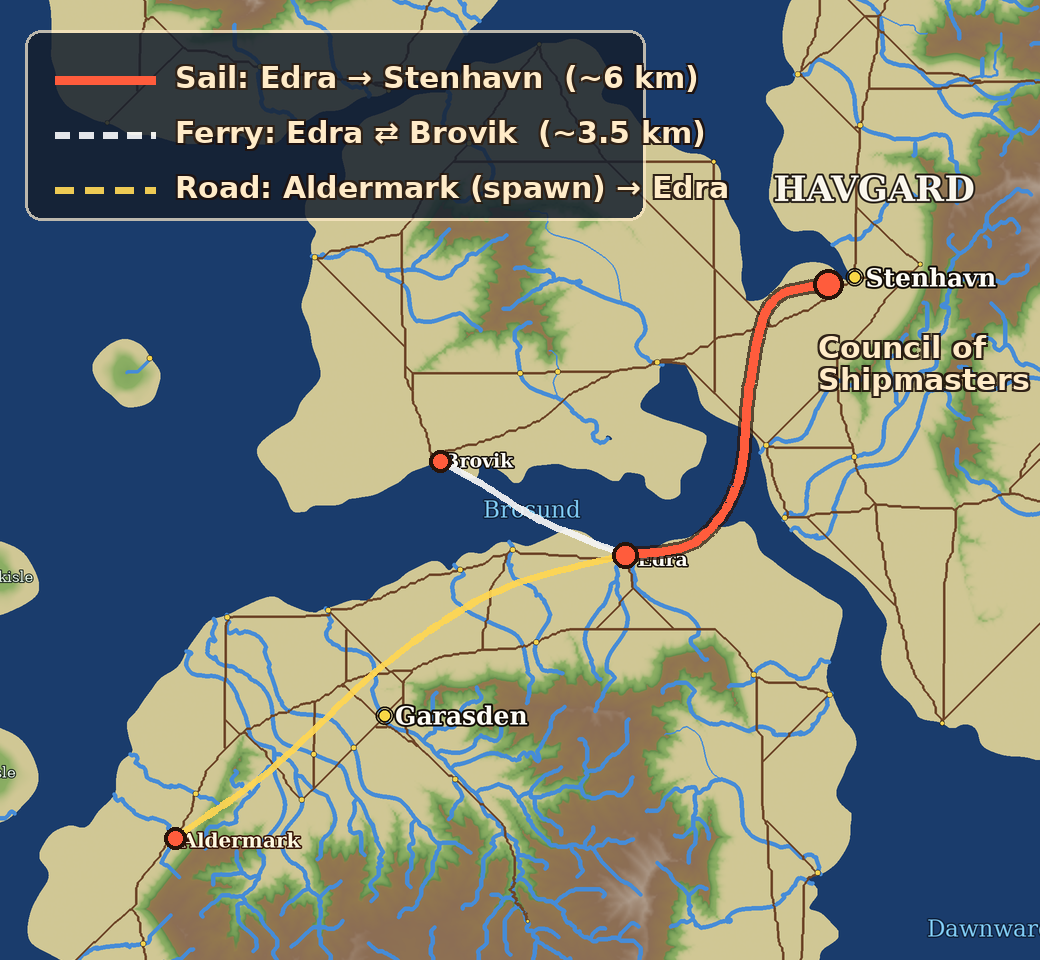
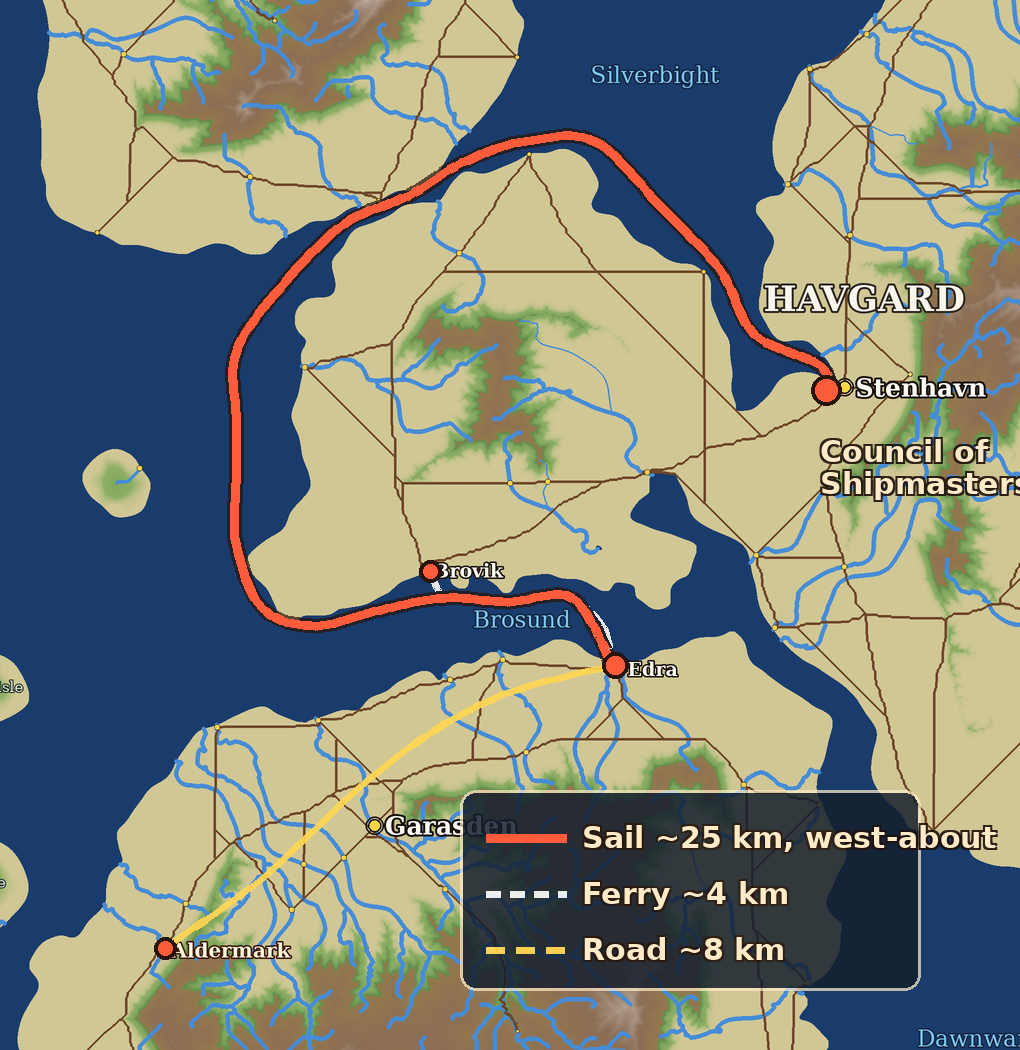
Fix the sail route: real water path west-about, ~25 km; retune XP per km
Claude-Session: https://claude.ai/code/session_0119zQEnC2MDPABWKviuWiey

diff --git a/PR0-boats-proposal.md b/PR0-boats-proposal.md
@@ -140,12 +140,12 @@ trade run something friends do together.
 
 **Sailing skill**: second `SkillId` on the system fishing added — same
 `100·level²` curve, same cap 30, same UI. XP sources and what they pay:
-**150 XP/km under way**, **+500** per voyage (docking ≥2 km out), **+2,000**
+**400 XP/km under way**, **+500** per voyage (docking ≥2 km out), **+2,000**
 the first time you ever dock at each named port or island (~20 sites — a
 one-time ~40k discovery pool), **+2,000** per sealed contract delivered,
-**+750** for surviving a pirate encounter. In practice: an Edra→Stenhavn run
-pays ~1,400 XP (~3,400 with a contract), so an active trader earns roughly
-9k XP/hour.
+**+750** for surviving a pirate encounter. In practice: the ~25 km
+Edra→Stenhavn voyage pays ~10,500 XP (~12,500 under contract), so an active
+trader earns roughly 9k XP/hour.
 
 Against the curve (38.5k / 287k / 945.5k cumulative to levels 10/20/30),
 the gates land where I want them to *feel*: the **sloop** is earned by
@@ -170,14 +170,18 @@ them. So v1 is one line drawn on your own map:
 
 - **Aldermark → Edra**: the existing road (~8 km) — or row the spawn river
   in a skiff. No new content needed.
-- **Edra ⇄ Brovik ferry** (~3.5 km across the Brosund): the lore's official
+- **Edra ⇄ Brovik ferry** (~4 km across the Brosund): the lore's official
   crossing, and the boat-less player's way over.
-- **Edra → Stenhavn sail** (~6 km, measured off the map render — the baked
-  water field is authoritative): east out of the strait, north up the channel,
-  into the Silverbight arm, docking under the **Council of Shipmasters** —
-  where the caravel license lives. This single A→B exercises everything the
-  system has: open-water sailing, contested water in the strait, and a
-  destination that makes Sailing 30 worth the voyage.
+- **Edra → Stenhavn sail** (~25 km, traced through the actual water on the
+  map render — the baked water field is authoritative): **west** down the
+  Brosund past Brovik, around the gateway landmass's cape, up into the
+  Silverbight, and down its southeastern arm to Stenhavn — docking under
+  the **Council of Shipmasters**, where the caravel license lives. (The
+  strait's northern bay is a dead end — the voyage genuinely rounds the
+  landmass, which is what makes it a voyage.) This single A→B exercises
+  everything the system has: contested strait water, an open-sea leg, safe
+  Silverbight water at the end, the ferry stop literally en route, and a
+  destination that makes Sailing 30 worth the crossing.
 
 A v1 **port** is deliberately just furniture: a dock prop, a shipwright
 merchant, a ferry post. Two of them — Edra and Stenhavn — plus the ferry
